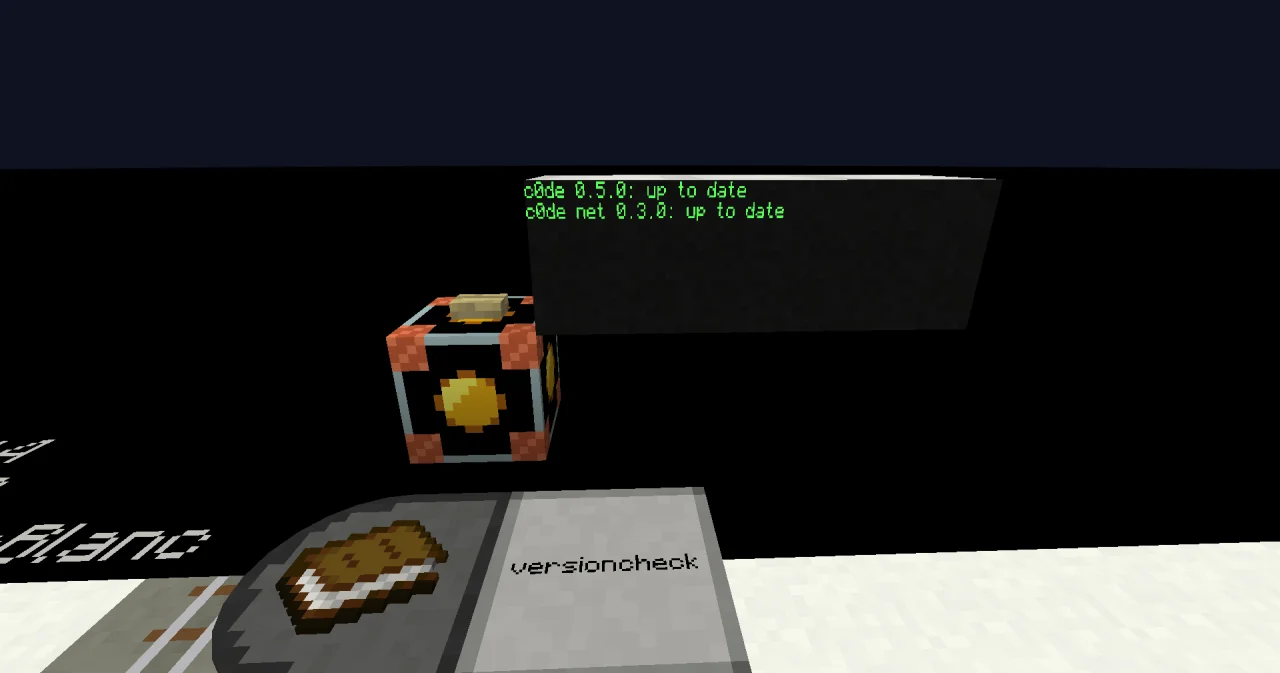
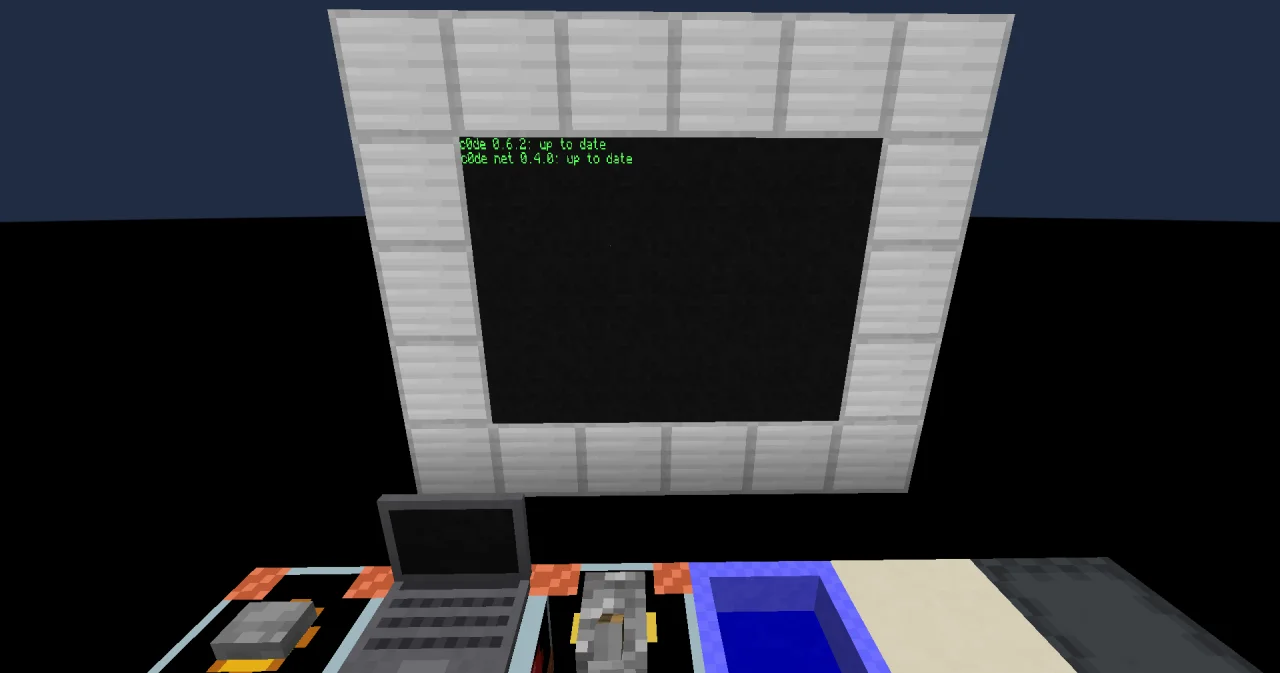
Task 13.11: the last two screenshots, release 0.9.0 with sprint 13

diff --git a/docs/implementation_plan.md b/docs/implementation_plan.md
@@ -260,7 +260,7 @@ A task is done when
 | 13.8 | c0de net 0.4.0 (c0de net sprint 8): `sources.yaml` imports c0de net at `v0.4.0` with its runner library (it contains Angus Mail). The handbook of c0de net now has a chapter c0de_net/mail: the import splits it like c0de_net/http, so c0de_net/mail gets its own tab with the types SMTP_SERVER, IMAP_SERVER, MAIL and MAILBOX, the twelve functions and the errors MAIL_DISABLED, AUTHENTICATION_FAILED, MAIL_REJECTED and MAIL_LIMIT (PERMISSION_DENIED is an error of c0de). The pages of c0de net drop Patchouli (the handbook is a binder of c0de), and the description of c0de net on the landing page names mail. The version check and the recipes of c0de_net/http run with 0.4.0. English and German.  Done on 2026-11-16: c0de net v0.4.0 in `sources.yaml`; the tab c0de_net/mail (colour lib7) has the types and the twelve functions, and its overview links to the getting started, the errors and the examples of c0de net, which both libraries share and which stay in the tab c0de_net/http; the description of c0de net names mail; the version check and the network errors show c0de net 0.4.0 (en and de, screenshots.yaml). | ✅ |
 | 13.9 | A mail server for the tests of the recipes: the test service (9.6.1) starts a GreenMail server (SMTP and IMAP, the standalone jar, Java is there for the runner) with test users and prepared messages, so the recipes of c0de_net/mail run in CI and on the VM without a real mail provider. To decide: how the programs reach it, since mail connections don't go through the HTTP proxy of the test service: the recipes take the server (and the password) as parameters, as players configure them anyway, and the test passes the address of GreenMail; or the runner resolves the hosts of the recipes to it. TLS: GreenMail offers SMTPS and IMAPS with its own certificate, so the tests use `tls` with `skip_ssl_validation`, or the certificate goes into the trust store like the one of the fake Open-Meteo (12.2.1). The expected files hold the messages GreenMail received.  Done on 2026-11-16: `site/scripts/mail-service.ts` starts GreenMail standalone 2.1.15 (Maven Central, cached in `.cache/greenmail`) on the fixed test ports of 127.0.0.1 (SMTPS 3465, IMAPS 3993, plain IMAP 3143 for filling), with its own certificate for 127.0.0.1 in the trust store of the runner, so the recipes use `tls` without skip_ssl_validation. Decided: the recipes take server and port as parameters (variable items), the password comes from the vault (SECRET mailPassword), and the options files name GreenMail. Before every run of a mail program, GreenMail is reset and the mailboxes are filled over IMAP (APPEND) with prepared folders and messages; `<name>[.<case>].received.yaml` lists what the mailboxes hold after the run, with flags. GreenMail's FROM search only matches whole addresses and finds nothing combined with other criteria, so the recipes search by subject. On Windows, GreenMail is started with the java of java.home, as the launcher of javapath would survive kill(). | ✅ |
 | 13.10 | Recipes for c0de_net/mail, a new chapter under Libraries (`site/tutorials/libraries/c0de_net/mail/`), English and German, each with exercises and tested programs; the coverage check requires all twelve functions. Proposed: **Mail from the farm** (SMTP_SEND: to, cc and bcc, reply_to, the Message-ID; the password from a SECRET or the vault of c0de/security, sensitive values; MAIL_LIMIT and the minute limit), **The order desk** (IMAP_SELECT with the variable by reference, IMAP_SEARCH with criteria like `UNSEEN SUBJECT order`, IMAP_FETCH with and without text, IMAP_STORE with `\Seen` and `\Flagged`, written `"\\Seen"` in the text notation, IMAP_MOVE), **Tidying the mailbox** (IMAP_LIST with patterns, IMAP_CREATE, IMAP_RENAME, IMAP_DELETE, IMAP_STATUS, IMAP_STORE with `\Deleted` and IMAP_EXPUNGE), and **When mail fails** (the errors: AUTHENTICATION_FAILED with app passwords, MAIL_REJECTED, PERMISSION_DENIED for port 25, MAIL_DISABLED, REQUEST_FAILED, and what the server settings mean). Every recipe explains that the client of the player connects to the mail server, like for HTTP. Screenshots of the programs in the world (screenshots.yaml).  Done on 2026-11-16: the chapter c0de_net/mail with Mail from the farm, The order desk, Tidying the mailbox and When mail fails (en and de, docs/tutorials.md 3.30–3.33), 6 programs with 14 runs against GreenMail, among them the exercises with bcc and MAIL_REJECTED; the import finds every function of c0de_net/mail in a recipe. Screenshots: 4 marks (farm-mail-laptop, order-desk-laptop, tidy-mailbox-laptop, mail-errors-laptop), to be taken in 13.11. | ✅ |
-| 13.11 | Review on the VM: Playwright, Lighthouse, link check, program runs; the 8 missing screenshots and the screenshot of the version check (13.6) are taken in the game. Release, when the user asks for it (after c0de 0.6.1 and c0de net 0.4.0).  Reviewed on 2026-11-18 on the VM (sprint-13 at 406a1e5, c0de 0.6.2, c0de net 0.4.0): 126 end-to-end tests passed, 8 skipped (3D in Firefox, the API in Firefox), the Lighthouse assertions passed on 11 pages, 314 of 314 program runs; locally 121 unit tests and the link check of the build without errors. 11 of the 12 missing screenshots were taken on 2026-11-17 and 2026-11-18. Open: the screenshots next-steps-handbook and up-to-date-wall (again, with c0de 0.6.2 and c0de net 0.4.0), and the release. |  |
+| 13.11 | Review on the VM: Playwright, Lighthouse, link check, program runs; the 8 missing screenshots and the screenshot of the version check (13.6) are taken in the game. Release, when the user asks for it (after c0de 0.6.1 and c0de net 0.4.0).  Reviewed on 2026-11-18 on the VM (sprint-13 at 406a1e5, c0de 0.6.2, c0de net 0.4.0): 126 end-to-end tests passed, 8 skipped (3D in Firefox, the API in Firefox), the Lighthouse assertions passed on 11 pages, 314 of 314 program runs; locally 121 unit tests and the link check of the build without errors. All 12 missing screenshots were taken on 2026-11-17 and 2026-11-18, the version check again with c0de 0.6.2 and c0de net 0.4.0: 74 screenshots, none missing. Release 0.9.0 on 2026-11-18. |  |
 | 13.11.1 | The sheets of the screenshot world stay where they are. The to-do list of 13.3–13.5 gave the sheets anew in the order of the pages, so 18 programs that were built on 2026-11-14 had wrong sheet numbers (from checking input on), and the 5 new programs had sheets that the world doesn't have. `contrib/screenshots/world.yaml` keeps the sheet of every program and the order of the to-do list, from the world built on 2026-11-14 (42 programs on the sheets 2 to 84); new programs get the next free sheets after the last one (now 86 to 102: checking input, copying signs, server commands, the door with a password, keeping keys and the four mail recipes), new screenshots come at the end of `docs/screenshots.md`, and `function c0de_screenshots:build_new` builds only the sheets that aren't built yet (`--built` records them). Done on 2026-11-17. | ✅ |
 | 13.11.2 | The mail recipes can be built in the game. The dialog of a literal takes what is typed as it is, so a text can't hold a line break: Mail from the farm and When mail fails build it with CHR 10 of c0de/strings, and the recipes say what to type in the dialog for `\Flagged` and quotes. A line of Mail from the farm was wider than a sheet (the runner doesn't check that); it is split, and `screenshot-world.ts` refuses such lines. The 9 new sheets (86 to 102) were built on 2026-11-17 with `build_new`, all without invalid blocks. Lessons: a sheet that is placed again unchanged isn't validated again (clear it first), and chunks of the c0de dimension that stay force-loaded can hang the server in the natural spawning (watchdog after 380 s); the force-loads of the debugging are removed. | ✅ |
 | 13.11.3 | The timer blocks of the new sheets ran their programs: a sheet that is placed again sets its timer block over itself, unpowered, and the lever, which is already there, doesn't tell it again. The place functions now remove lever and timer first, so the timer block is new and takes the signal of the lever. Sheets 96 to 102 were placed again on 2026-11-17; their timers are paused. | ✅ |

diff --git a/docs/zz_prompts.md b/docs/zz_prompts.md
@@ -301,3 +301,7 @@ I took the first few screenshots and I have three findings:
 I did some more tests and created the screenshots for the web server. Let's shelve the c0de-net release until we have something more substantial in it.
 
 Please add the screenshots from the folder minecraft-c0de-net/run/screenshots and continue with the remaining tasks for www-c0de
+
+## 2026-11-18 – Release 0.9.0
+
+I added the two remaining screenshots, please add them and go ahead with the release

diff --git a/docs/screenshots.md b/docs/screenshots.md
@@ -1453,7 +1453,7 @@ END FUNCTION
 
 `site/tutorials/learning/next-steps.md`
 
-### [ ] next-steps-handbook
+### [x] next-steps-handbook
 
 the handbook Functions open in the game as a red binder, showing the page of SAY with its parameters and its example
 
